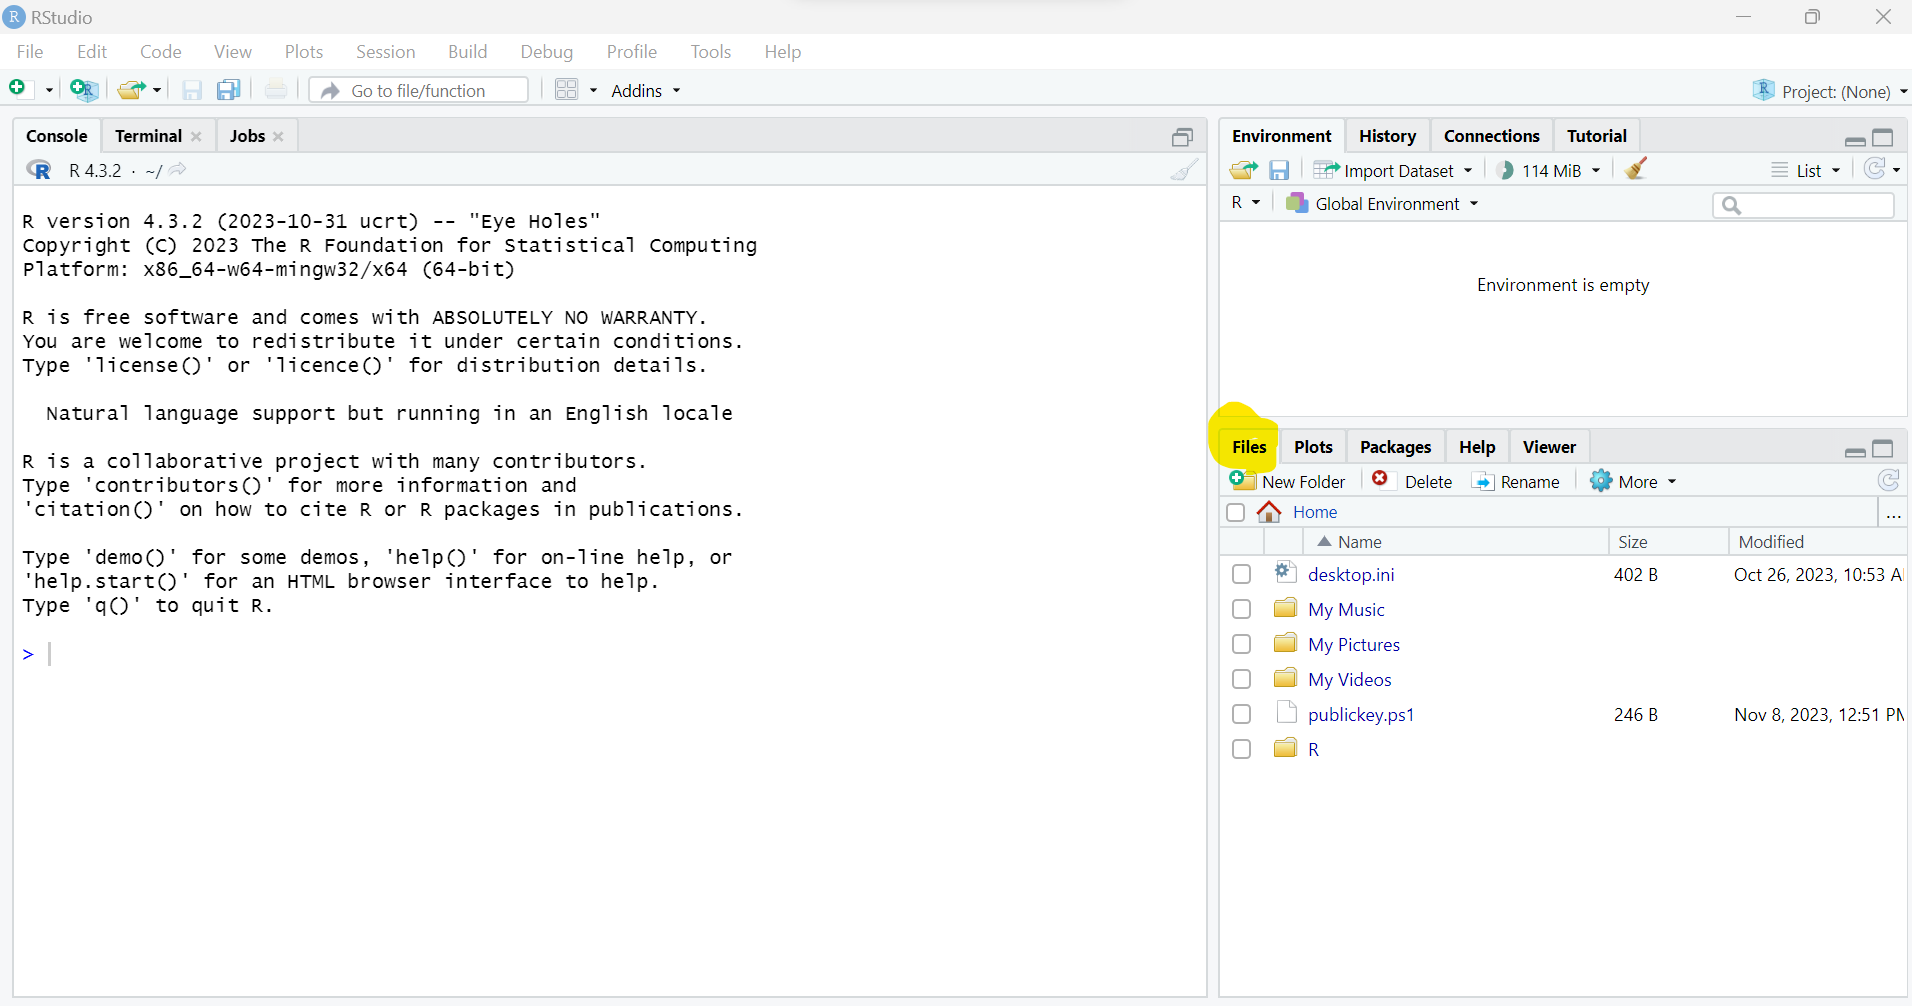
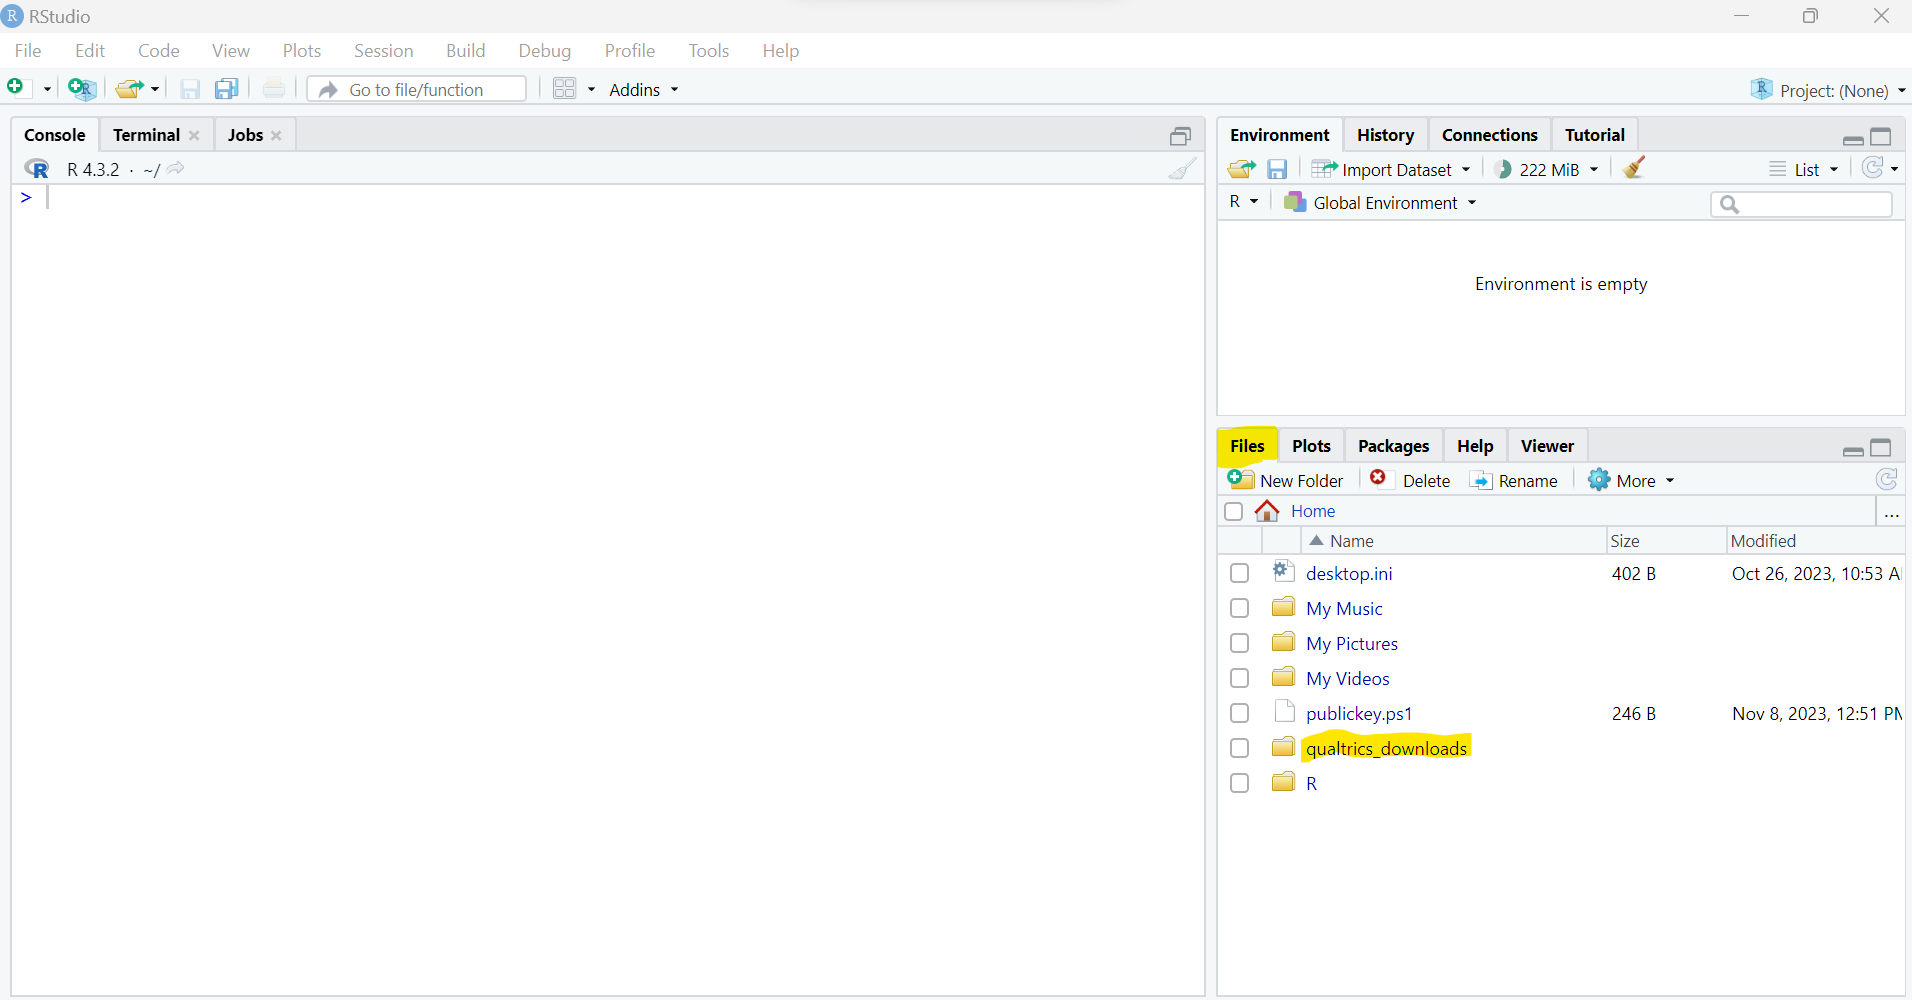
docs: add file navigation to the readme

diff --git a/README.md b/README.md
@@ -1,6 +1,6 @@
 ## cdlqualtrics
 
-*R-based tools to format Qualtrics behaviour observation data*
+**R-based tools to format Qualtrics behaviour observation data**
 
 ### overview
 
@@ -8,9 +8,34 @@ Presented here is an R-based tool to format data collected in Qualtrics so as to
 
 ### installation
 
-An installation of R is required. The easiest way to interface with R, particularly on machines running Windows, is through the RStudio IDE. Instructions for installing R and RStudio are available through [Posit](https://posit.co/download/rstudio-desktop/), or they can be accessed through the [ASU software center](https://ets.engineering.asu.edu/softwareage/software/). Once installed, the `remotes` library will facilitate installing the tools to format the Qualtrics data.
+An installation of R and several libraries are required. The following steps need to be run only once on any given computer.
+
+1. The easiest way to interface with R, particularly on machines running Windows, is through the RStudio IDE. Instructions for installing R and RStudio are available through [Posit](https://posit.co/download/rstudio-desktop/), or they can be accessed through the [ASU software center](https://ets.engineering.asu.edu/softwareage/software/). 
+
+2. Once R and RStudio are installed, install the `remotes` library to facilitate installing the cdlqualtrics library to format the Qualtrics data.
 
 ![](inst/image/rstudio_install_remotes.png)
-<figcaption>Install the `remotes` library by issuing the command `install.packages("remotes") in the RStudio interface.</figcaption>
+*Install the `remotes` library by issuing the command `r install.packages("remotes")` in the RStudio interface.*
+
+3. Use the `remotes` library to install the cdlqualtrics library from GitHub that has the formatting tools.
+
+![](inst/image/rstudio_install_qualtrics.png)
+*Install the `cdlqualtrics` library by issuing the command `r remotes::install_github("srearl/cdlqualtrics")` in the RStudio interface.*
+
+### application
+
+### file navigation
+
+1. Using the Files tab within the RStudio interface, navigate to the directory where the files downloaded from Qualtrics are located.
 
 ![](inst/image/rstudio_directory_naviation.png)
+*Navigate to the directory where the files downloaded from Qualtrics are located (`qualtrics_downloads` in this example)*
+
+2. Under the `More` select the option to `Set As Working Directory` to make the directory where the Qualtrics files have been downloaded the active directory.
+
+![](inst/image/rstudio_set_working_dir.png)
+*Set the directory where the Qualtrics files have been downloaded as the working directory*
+
+### formatting
+
+1.
